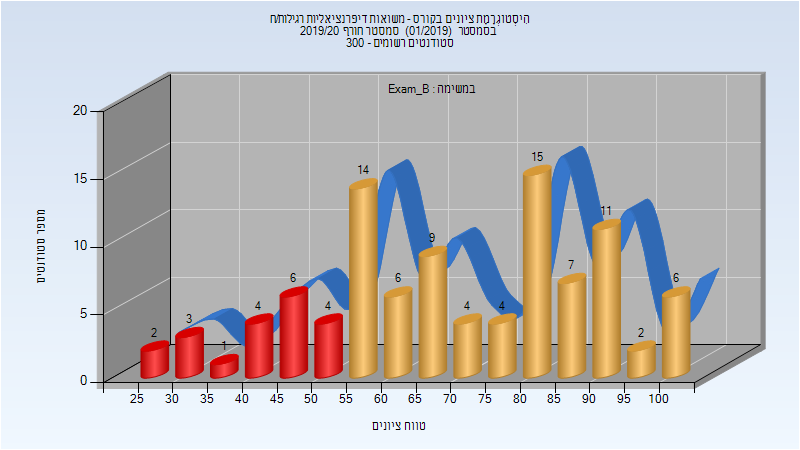
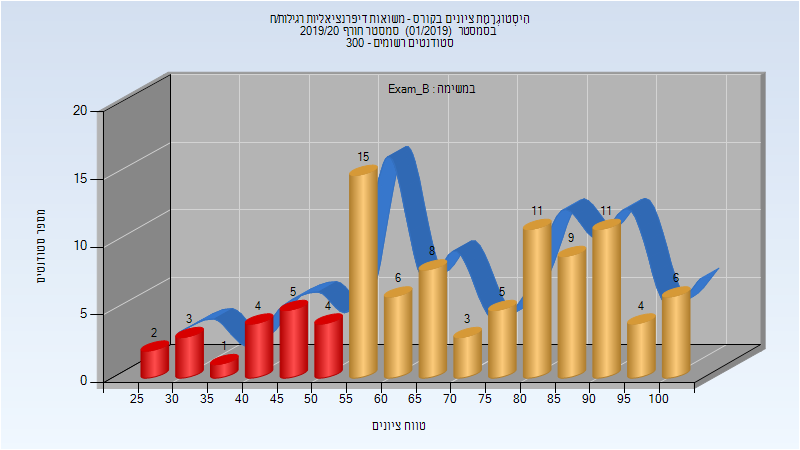
Deploy michael-maltsev/technion-histograms to github.com/michael-maltsev/technion-histograms.git:gh-pages

diff --git a/134019/index.html b/134019/index.html
@@ -1324,8 +1324,60 @@
 <td>94</td>
 <td>31</td>
 <td>98.913</td>
-<td>79.222</td>
+<td>79.205</td>
 <td>82.483</td>
+</tr>
+</tbody>
+</table>
+<h3>מבחן מועד ב'</h3>
+<p><img src="201901/Exam_B.png" alt="201901 Exam_B" /></p>
+<table>
+<thead>
+<tr>
+<th>סטודנטים</th>
+<th>עברו/נכשלו</th>
+<th>אחוז עוברים</th>
+<th>ציון מינימלי</th>
+<th>ציון מקסימלי</th>
+<th>ממוצע</th>
+<th>חציון</th>
+</tr>
+</thead>
+<tbody>
+<tr>
+<td>27</td>
+<td>20/7</td>
+<td>74</td>
+<td>20</td>
+<td>95</td>
+<td>63.433</td>
+<td>63</td>
+</tr>
+</tbody>
+</table>
+<h3>סופי מועד ב'</h3>
+<p><img src="201901/Final_B.png" alt="201901 Final_B" /></p>
+<table>
+<thead>
+<tr>
+<th>סטודנטים</th>
+<th>עברו/נכשלו</th>
+<th>אחוז עוברים</th>
+<th>ציון מינימלי</th>
+<th>ציון מקסימלי</th>
+<th>ממוצע</th>
+<th>חציון</th>
+</tr>
+</thead>
+<tbody>
+<tr>
+<td>27</td>
+<td>20/7</td>
+<td>74</td>
+<td>20</td>
+<td>95</td>
+<td>65.407</td>
+<td>68</td>
 </tr>
 </tbody>
 </table>

diff --git a/104131/index.html b/104131/index.html
@@ -2093,13 +2093,13 @@
 </thead>
 <tbody>
 <tr>
-<td>98</td>
-<td>78/20</td>
+<td>97</td>
+<td>78/19</td>
 <td>80</td>
 <td>27</td>
 <td>100</td>
-<td>69.235</td>
-<td>69</td>
+<td>69.979</td>
+<td>70</td>
 </tr>
 </tbody>
 </table>
@@ -2119,13 +2119,13 @@
 </thead>
 <tbody>
 <tr>
-<td>98</td>
-<td>83/15</td>
-<td>85</td>
+<td>97</td>
+<td>83/14</td>
+<td>86</td>
 <td>28</td>
 <td>100</td>
-<td>69.806</td>
-<td>69</td>
+<td>70.526</td>
+<td>70</td>
 </tr>
 </tbody>
 </table>
@@ -2145,13 +2145,13 @@
 </thead>
 <tbody>
 <tr>
-<td>202</td>
-<td>169/33</td>
-<td>84</td>
-<td>8</td>
+<td>267</td>
+<td>244/23</td>
+<td>91</td>
+<td>13</td>
 <td>100</td>
-<td>71.53</td>
-<td>75</td>
+<td>76.134</td>
+<td>80</td>
 </tr>
 </tbody>
 </table>

diff --git a/104131/README.md b/104131/README.md
@@ -658,7 +658,7 @@
 
 | סטודנטים | עברו/נכשלו | אחוז עוברים | ציון מינימלי | ציון מקסימלי | ממוצע | חציון |
 | ---- | ---- | ---- | ---- | ---- | ---- | ---- |
-| 98 | 78/20 | 80 | 27 | 100 | 69.235 | 69 |
+| 97 | 78/19 | 80 | 27 | 100 | 69.979 | 70 |
 
 ### סופי מועד ב'
 
@@ -666,7 +666,7 @@
 
 | סטודנטים | עברו/נכשלו | אחוז עוברים | ציון מינימלי | ציון מקסימלי | ממוצע | חציון |
 | ---- | ---- | ---- | ---- | ---- | ---- | ---- |
-| 98 | 83/15 | 85 | 28 | 100 | 69.806 | 69 |
+| 97 | 83/14 | 86 | 28 | 100 | 70.526 | 70 |
 
 ### סופי
 
@@ -674,7 +674,7 @@
 
 | סטודנטים | עברו/נכשלו | אחוז עוברים | ציון מינימלי | ציון מקסימלי | ממוצע | חציון |
 | ---- | ---- | ---- | ---- | ---- | ---- | ---- |
-| 202 | 169/33 | 84 | 8 | 100 | 71.53 | 75 |
+| 267 | 244/23 | 91 | 13 | 100 | 76.134 | 80 |
 
 ## אביב 2020
 

diff --git a/134019/README.md b/134019/README.md
@@ -416,7 +416,23 @@
 
 | סטודנטים | עברו/נכשלו | אחוז עוברים | ציון מינימלי | ציון מקסימלי | ממוצע | חציון |
 | ---- | ---- | ---- | ---- | ---- | ---- | ---- |
-| 140 | 132/8 | 94 | 31 | 98.913 | 79.222 | 82.483 |
+| 140 | 132/8 | 94 | 31 | 98.913 | 79.205 | 82.483 |
+
+### מבחן מועד ב'
+
+![201901 Exam_B](201901/Exam_B.png)
+
+| סטודנטים | עברו/נכשלו | אחוז עוברים | ציון מינימלי | ציון מקסימלי | ממוצע | חציון |
+| ---- | ---- | ---- | ---- | ---- | ---- | ---- |
+| 27 | 20/7 | 74 | 20 | 95 | 63.433 | 63 |
+
+### סופי מועד ב'
+
+![201901 Final_B](201901/Final_B.png)
+
+| סטודנטים | עברו/נכשלו | אחוז עוברים | ציון מינימלי | ציון מקסימלי | ממוצע | חציון |
+| ---- | ---- | ---- | ---- | ---- | ---- | ---- |
+| 27 | 20/7 | 74 | 20 | 95 | 65.407 | 68 |
 
 ### סופי
 
